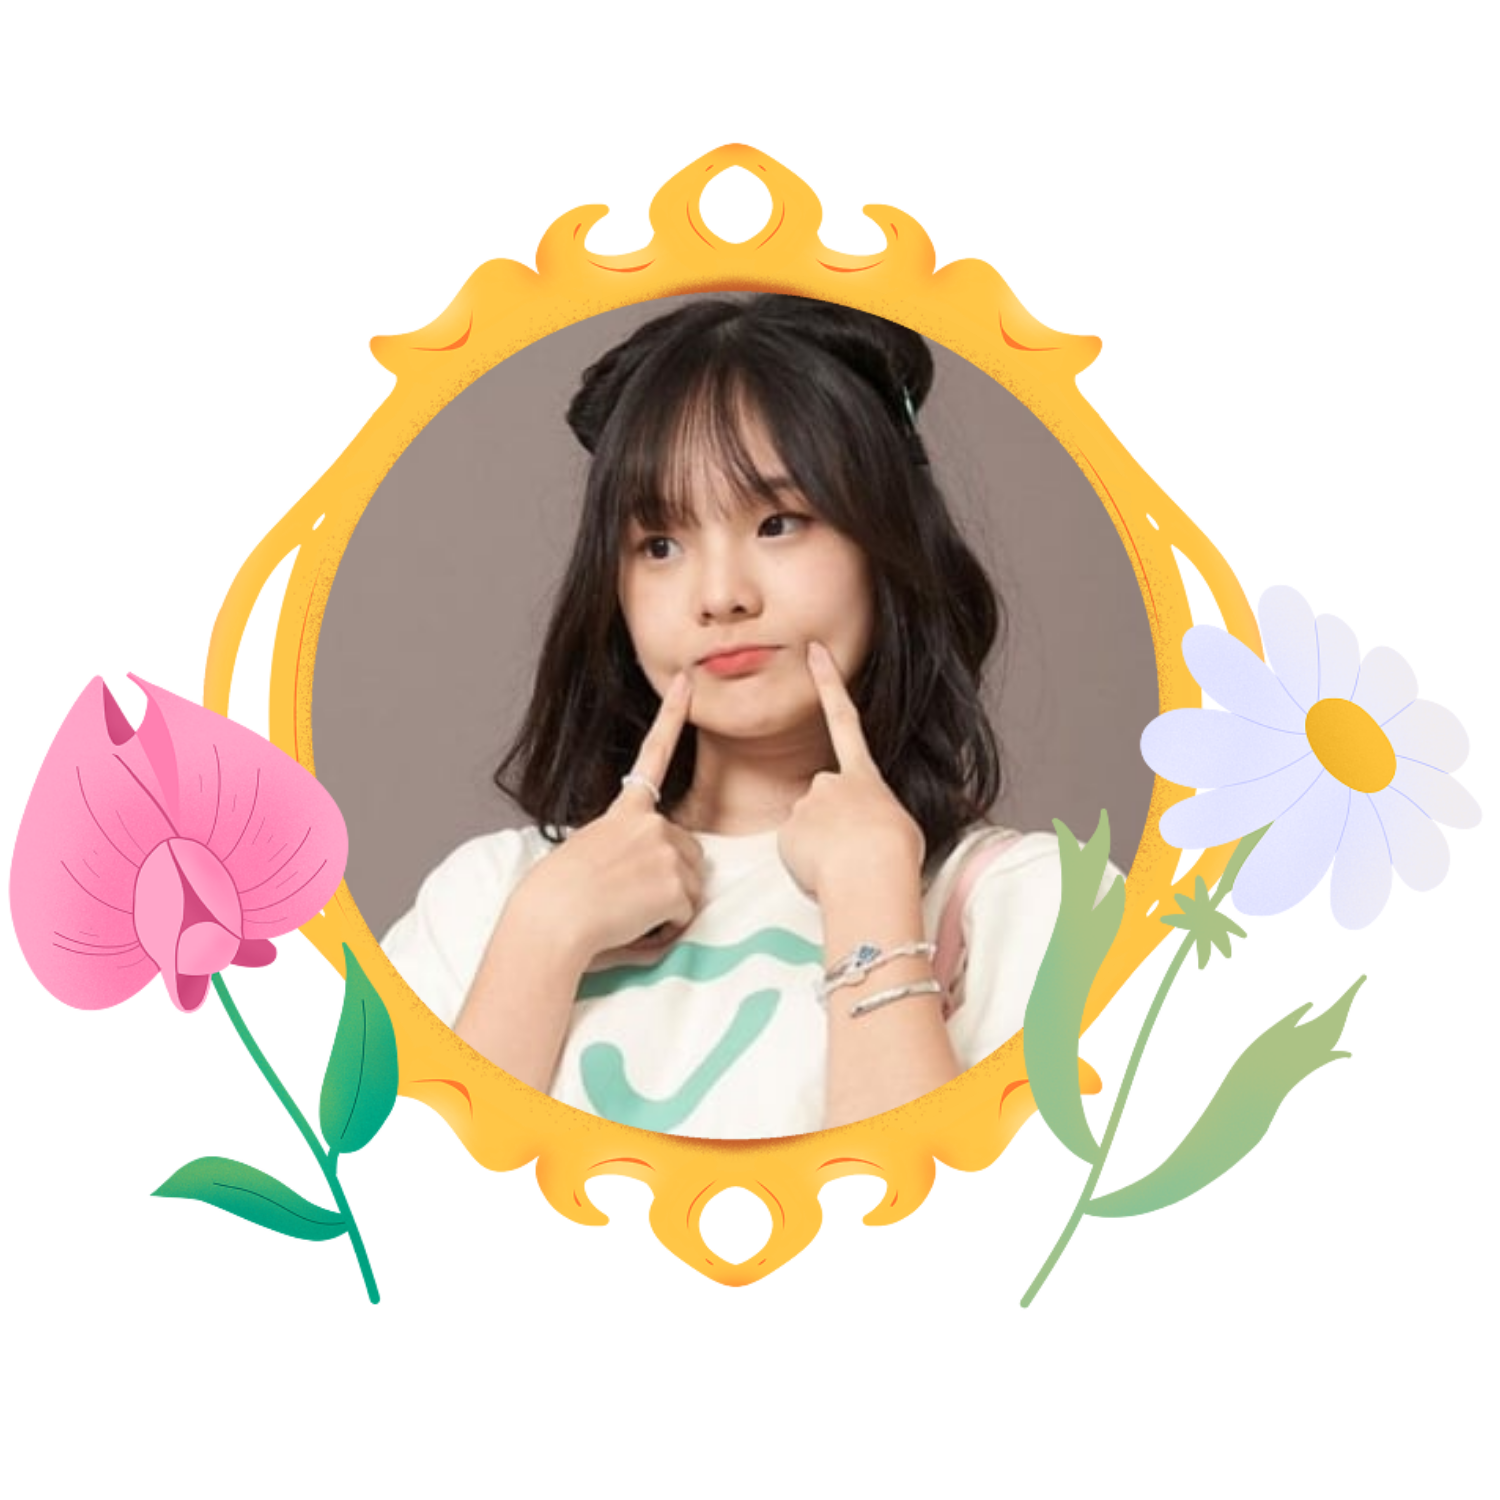
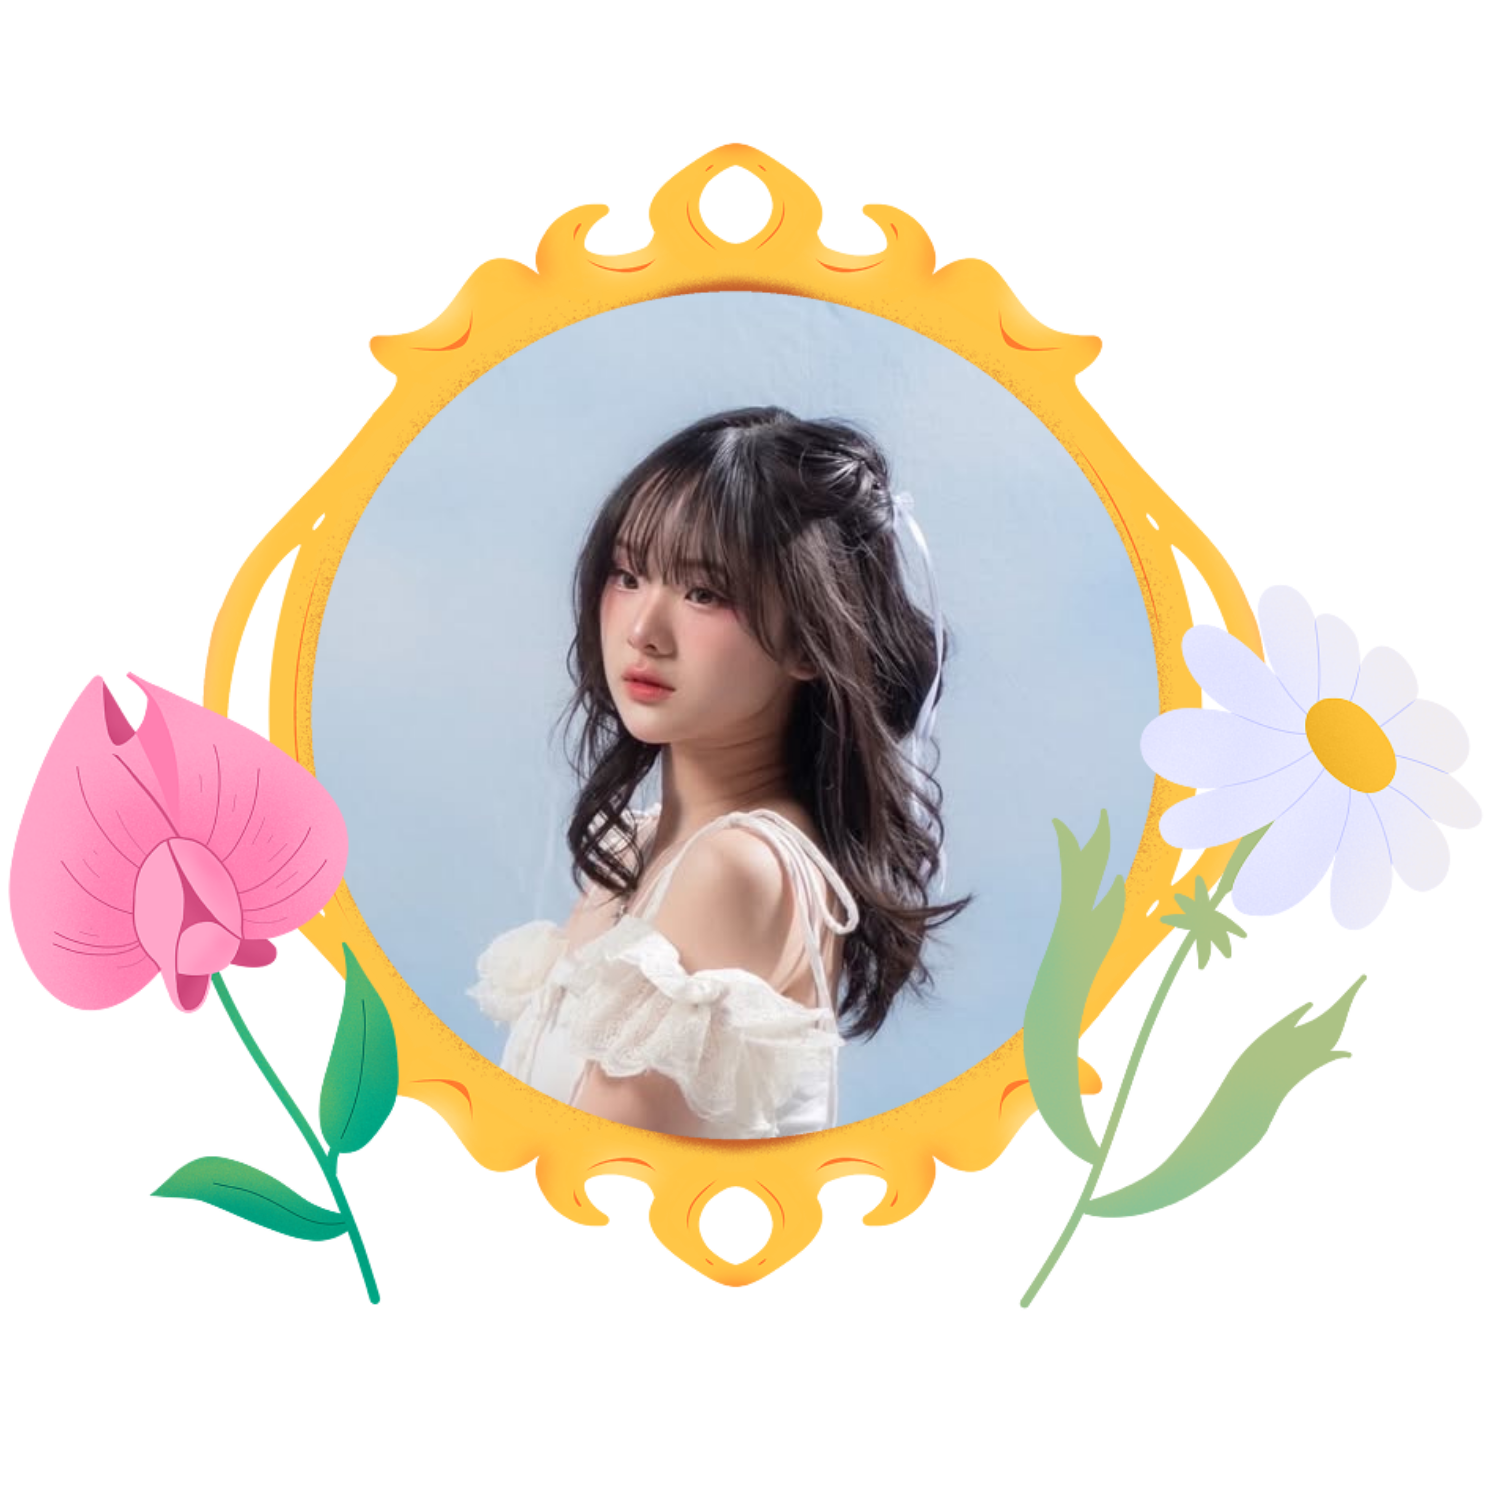
sponsors, artist, countdown fix

Changed region(s): [[0.184, 0.184, 0.7973, 0.7667]]

diff --git a/src/pages/Home.jsx b/src/pages/Home.jsx
@@ -16,6 +16,7 @@ import leaves from "../assets/leaves.png";
 import jobstreet from "../assets/jobstreet.png"
 import dewaweb from "../assets/dewaweb.png"
 import cbn from "../assets/cbn.png"
+import alfagift from "../assets/alfagift.png"
 
 import Navbar from "../components/Navbar";
 import Button from "../components/Button";
@@ -44,8 +45,9 @@ const Home = () => {
   };
 
   const sponsors = [
-    // { name: "JobStreet", logo: jobstreet, tier: "S", href: "https://www.jobstreet.co.id" },
-    // { name: "CBN Internet", logo: cbn, tier: "L", href: "https://www.cbn.id/en" },
+    { name: "JobStreet", logo: jobstreet, tier: "S", href: "https://www.jobstreet.co.id" },
+    { name: "CBN Internet", logo: cbn, tier: "L", href: "https://www.cbn.id/en" },
+    { name: "Alfagift", logo: alfagift, tier: "M", href: "https://www.cbn.id/en" },
   ];
 
   const cardData = [
@@ -86,7 +88,6 @@ const Home = () => {
           <img src={techno2025logo} alt="herologo" className="w-1/3 max-lg:w-2/3 bob-animation" />
           <div className="flex flex-row max-xl:flex-col max-xl:gap-4 justify-center items-center text-center">
             <Countdown date={new Date("2025-09-28T11:30:00")} renderer={gjktRender} />
-            <Countdown date={new Date("2025-09-14T12:00:00")} renderer={smgRender} />
           </div>
           <a href="#about">
             <Button text="Learn more →" />

diff --git a/src/pages/Events.jsx b/src/pages/Events.jsx
@@ -256,12 +256,12 @@ const Events = () => {
             </h2>
 
             <div className="flex items-center justify-center w-1/2 max-lg:w-full">
-              <img src={artistsecret} alt="Guest Border" className="w-full h-full object-contain" />
+              <img src={artist} alt="Guest Border" className="w-full h-full object-contain" />
             </div>
 
             <div className="flex-1 text-left px-4">
               <p className="text-2xl text-center">
-                Who might we invite to this year's TECHNO event? Stay tuned to find out!
+                We welcome Nadine Abigail, bringing her voice and talent to this year's TECHNO event! So stay tuned and await the big show!
               </p>
             </div>
           </div>
